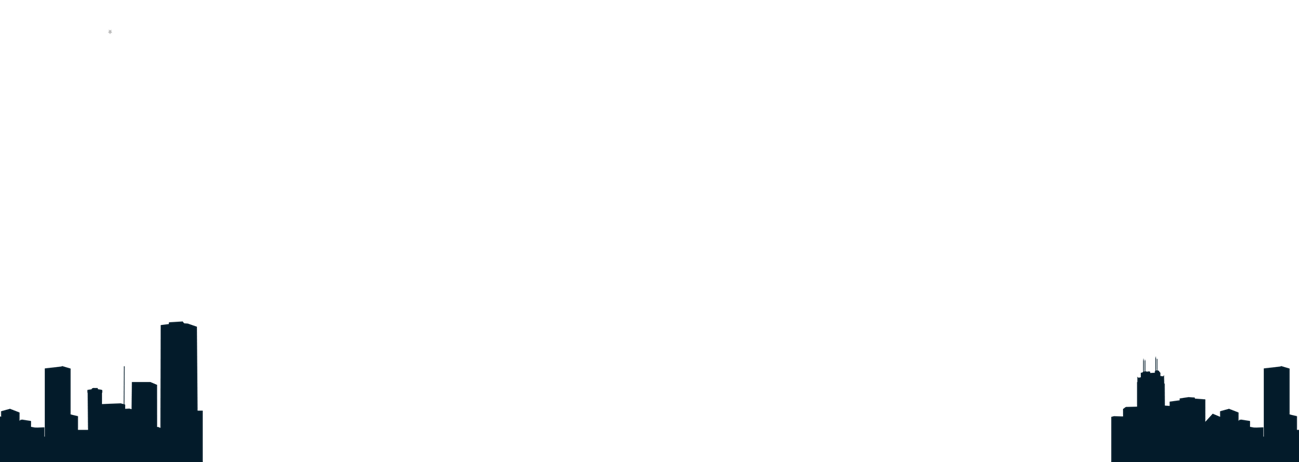
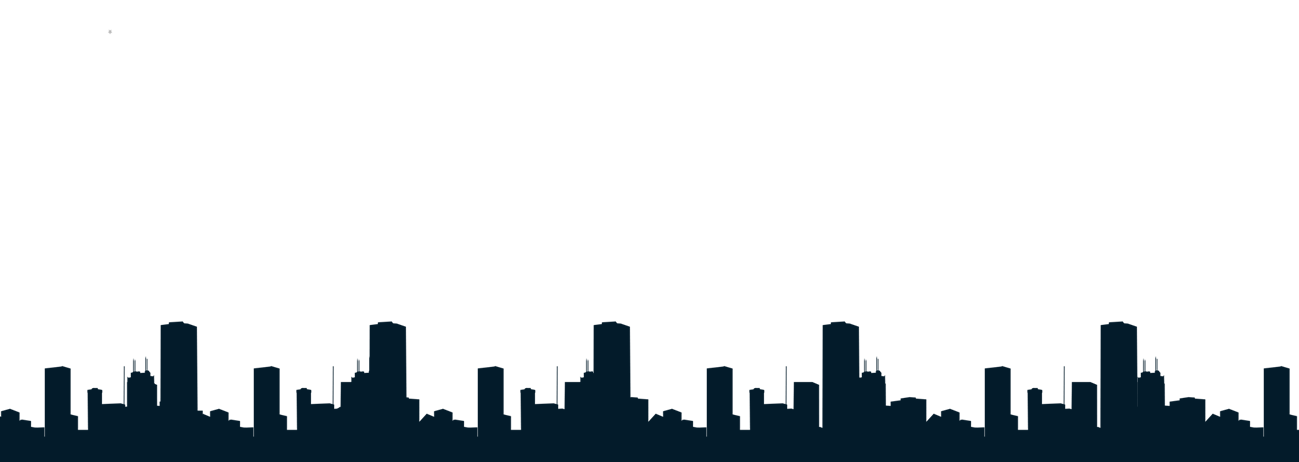
idan fixes

Changed region(s): [[0.154, 0.697, 0.893, 1.0], [0.0924, 0.7879, 0.1232, 0.9091]]

diff --git a/sites/all/themes/bluemasters/style.css b/sites/all/themes/bluemasters/style.css
@@ -904,8 +904,5 @@ a.drupalizing:link, a.drupalizing:active, a.drupalizing:visited, a.drupalizing:h
 	z-index:1;
 	width:1300px;
 	height:462px;
-	background: transparent url(images/background.png) no-repeat;
-	position:absolute;
-	top:-35px;
-	left:30px;
+background: transparent url(images/background.png) 0px -28px repeat-x;
 }

diff --git a/sites/all/themes/bluemasters/page-front.tpl.php b/sites/all/themes/bluemasters/page-front.tpl.php
@@ -17,7 +17,7 @@
 <body>
 
 <div id="page">
-
+	<div id="citybackground">
 <div id="wrapper">
 	<div id="header" class="clearfix">
 	
@@ -81,7 +81,6 @@
 	</div><!--banner-->
 	
 	<div id="slide-navigation"></div>
-	<div id="citybackground"></div>
 	<div id="home-blocks-area" class="clearfix">
 		<div id="home-block-1" class="home-block">
 	    	<?php print $home_area_1;?> 		
@@ -139,7 +138,7 @@
     
 <?php print $closure ?>
 
-
+</div> <!-- /cityback -->
 </div><!-- /page-->
 
 </body>
